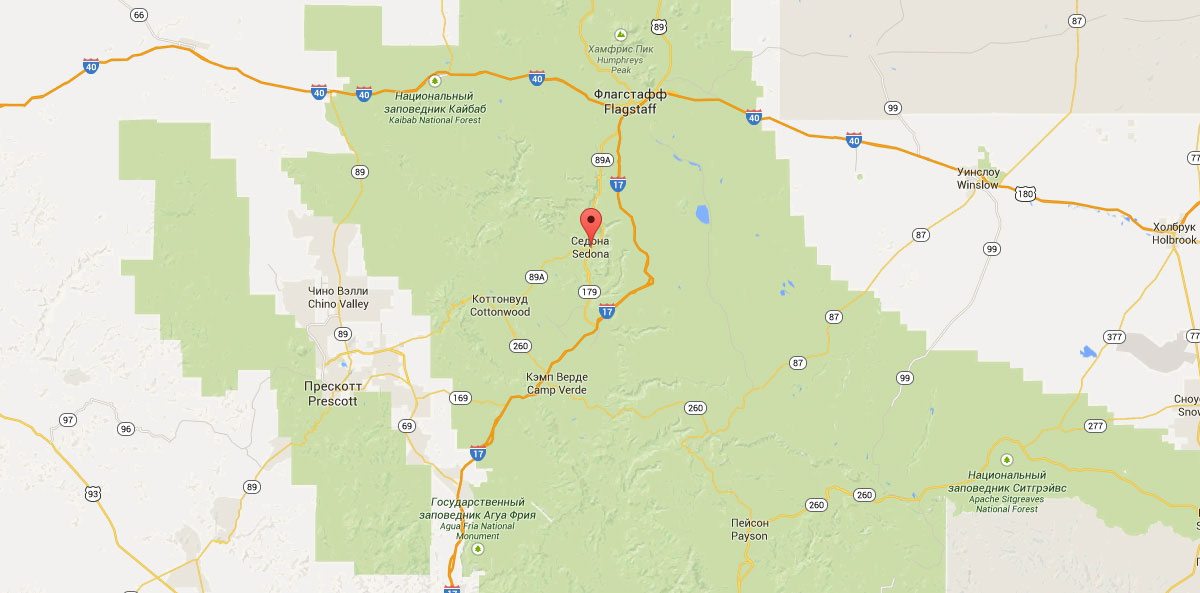
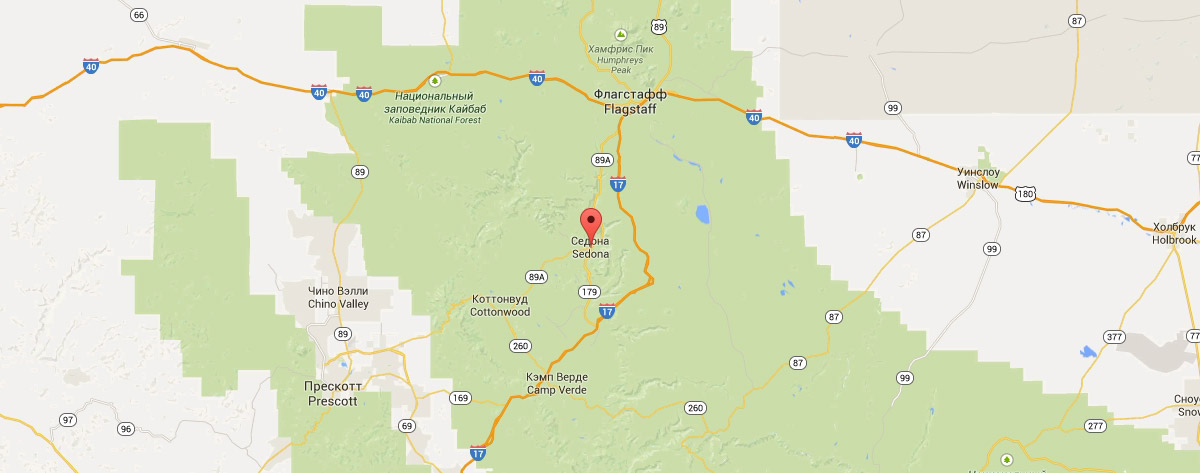
добавил контентные изображения

diff --git a/index.html b/index.html
@@ -8,7 +8,7 @@
     <header class="main-header">
       <nav class="main-navigation">
         <a class="main-header-logo">
-          <img src="http://placehold.it/150x100" width="150" height="100" alt="Герб Седоны">
+          <img src="img/main-logo.png" width="138" height="70" alt="Герб Седоны">
         </a>
         <ul class="site-navigation">
           <li><a href="#">Информация</a></li>
@@ -32,7 +32,7 @@
             <h3>Настоящий городок</h3>
             <p class="numbers">&mdash;&nbsp;&#8470;&nbsp;1 &mdash;</p>
             <p class="features-description">Седона&nbsp;&mdash; не&nbsp;аттракцион для туристов, там течет своя жизнь</p>
-            <img src="http://placehold.it/150x100" width="150" height="100" alt="Город Седона">
+            <img src="img/true-city.jpg" width="800" height="256" alt="Город Седона">
             <ul class="feature-1">
               <li>
                 <h4>Жилье</h4>
@@ -52,7 +52,7 @@
             <h3>Там есть мост дьявола</h3>
             <p class="numbers">&mdash;&nbsp;&#8470;&nbsp;2 &mdash;</p>
             <p class="features-description">Да, по нему можно пройти! Если конечно вы осмелитесь</p>
-            <img src="http://placehold.it/150x100" width="150" height="100" alt="Мост дьявола">
+            <img src="img/devil-bridge.jpg" width="800" height="256" alt="Мост дьявола">
           </li>
           <li class="features-list-item">
             <h3>Небольшая площадь</h3>
@@ -78,7 +78,7 @@
         <!-- форма -->
       </div>
       <div class="map">
-        <img src="#" alt="Карта Седоны">
+        <img src="img/map.jpg" width="1200" height="473" alt="Карта Седоны">
       </div>
     </main>
     <footer class="main-footer">

diff --git a/hotels.html b/hotels.html
@@ -8,7 +8,7 @@
     <header class="main-header">
       <nav class="main-navigation">
         <a href="index.html" class="main-header-logo">
-          <img src="http://placehold.it/150x100" width="150" height="100" alt="Герб Седоны">
+          <img src="img/main-logo.png" width="138" height="70" alt="Герб Седоны">
         </a>
         <ul class="site-navigation">
           <li><a href="#">Информация</a></li>
@@ -45,7 +45,7 @@
               </h3>
               <p class="hotels-item-image">
                 <a href="#">
-                  <img src="http://placehold.it/150x100" width="150" height="100" alt="Amara Resort &amp;&nbsp;Spa">
+                  <img src="img/hotel1.jpg" width="135" height="90" alt="Amara Resort &amp;&nbsp;Spa">
                 </a>
               </p>
               <p class="hotels-detail">
@@ -67,7 +67,7 @@
               </h3>
               <p class="hotels-item-image">
                 <a href="#">
-                  <img src="http://placehold.it/150x100" width="150" height="100" alt="Desert Quail Inn">
+                  <img src="img/hotel2.jpg" width="135" height="90" alt="Desert Quail Inn">
                 </a>
               </p>
               <p class="hotels-detail">
@@ -89,7 +89,7 @@
               </h3>
               <p class="hotels-item-image">
                 <a href="#">
-                  <img src="http://placehold.it/150x100" width="150" height="100" alt="Villas at Poco Diablo">
+                  <img src="img/hotel3.jpg" width="135" height="90" alt="Villas at Poco Diablo">
                 </a>
               </p>
               <p class="hotels-detail">
